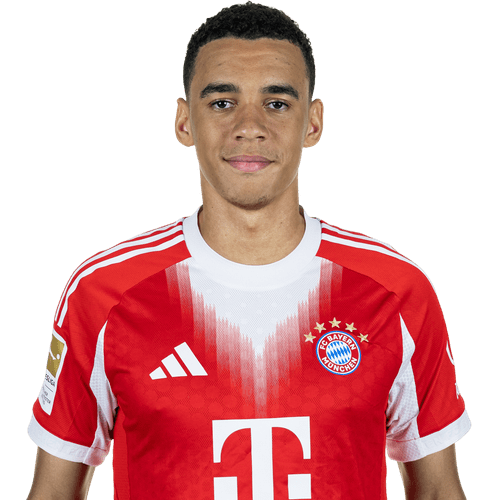
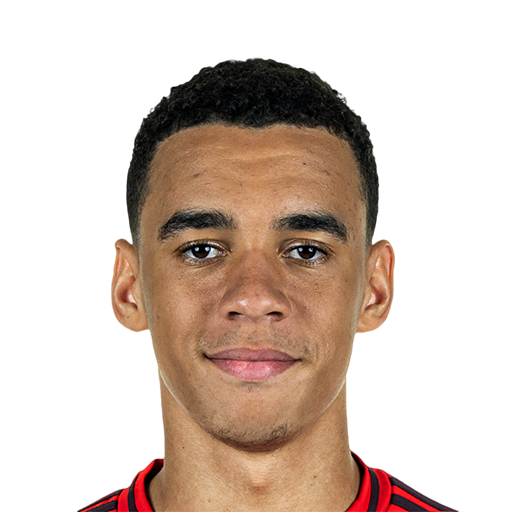
feat(players): standardize all 999 player photos to official FIFA/EA FC face-only portraits

diff --git a/src/lib/master-league-data.ts b/src/lib/master-league-data.ts
@@ -296,7 +296,8 @@ export const MOCK_ATHLETES: AthleteDTO[] = [
     overall: 92,
     position: "ATA",
     age: 26,
-    photoUrl: "/players/mbappe.png",
+    photoUrl:
+      "https://ratings-images-prod.pulse.ea.com/FC25/full/player-portraits/p231747.png?padding=0.7",
     defaultTeam: "Real Madrid",
     ballType: "BOLA_PRETA",
   },
@@ -306,7 +307,8 @@ export const MOCK_ATHLETES: AthleteDTO[] = [
     overall: 91,
     position: "ATA",
     age: 25,
-    photoUrl: "/players/haaland.png",
+    photoUrl:
+      "https://ratings-images-prod.pulse.ea.com/FC25/full/player-portraits/p239085.png?padding=0.7",
     defaultTeam: "Manchester City",
     ballType: "BOLA_PRETA",
   },
@@ -316,7 +318,8 @@ export const MOCK_ATHLETES: AthleteDTO[] = [
     overall: 91,
     position: "PE",
     age: 25,
-    photoUrl: "/players/vinijr.png",
+    photoUrl:
+      "https://ratings-images-prod.pulse.ea.com/FC25/full/player-portraits/p238794.png?padding=0.7",
     defaultTeam: "Real Madrid",
     ballType: "BOLA_PRETA",
   },
@@ -326,7 +329,8 @@ export const MOCK_ATHLETES: AthleteDTO[] = [
     overall: 91,
     position: "VOL",
     age: 29,
-    photoUrl: "/players/rodri.png",
+    photoUrl:
+      "https://ratings-images-prod.pulse.ea.com/FC25/full/player-portraits/p231866.png?padding=0.7",
     defaultTeam: "Manchester City",
     ballType: "BOLA_PRETA",
   },
@@ -336,7 +340,8 @@ export const MOCK_ATHLETES: AthleteDTO[] = [
     overall: 90,
     position: "ATA",
     age: 38,
-    photoUrl: "/players/messi.png",
+    photoUrl:
+      "https://ratings-images-prod.pulse.ea.com/FC25/full/player-portraits/p158023.png?padding=0.7",
     defaultTeam: "Inter Miami",
     ballType: "BOLA_PRETA",
   },
@@ -346,7 +351,8 @@ export const MOCK_ATHLETES: AthleteDTO[] = [
     overall: 90,
     position: "MEI",
     age: 22,
-    photoUrl: "/players/bellingham.png",
+    photoUrl:
+      "https://ratings-images-prod.pulse.ea.com/FC25/full/player-portraits/p252371.png?padding=0.7",
     defaultTeam: "Real Madrid",
     ballType: "BOLA_PRETA",
   },
@@ -356,7 +362,8 @@ export const MOCK_ATHLETES: AthleteDTO[] = [
     overall: 90,
     position: "ATA",
     age: 32,
-    photoUrl: "/players/kane.png",
+    photoUrl:
+      "https://ratings-images-prod.pulse.ea.com/FC25/full/player-portraits/p202126.png?padding=0.7",
     defaultTeam: "Bayern München",
     ballType: "BOLA_PRETA",
   },
@@ -366,7 +373,8 @@ export const MOCK_ATHLETES: AthleteDTO[] = [
     overall: 90,
     position: "GOL",
     age: 33,
-    photoUrl: "/players/courtois.png",
+    photoUrl:
+      "https://ratings-images-prod.pulse.ea.com/FC25/full/player-portraits/p192119.png?padding=0.7",
     defaultTeam: "Real Madrid",
     ballType: "BOLA_PRETA",
   },
@@ -376,7 +384,8 @@ export const MOCK_ATHLETES: AthleteDTO[] = [
     overall: 89,
     position: "ATA",
     age: 40,
-    photoUrl: "/players/ronaldo.png",
+    photoUrl:
+      "https://ratings-images-prod.pulse.ea.com/FC25/full/player-portraits/p20801.png?padding=0.7",
     defaultTeam: "Al-Nassr",
     ballType: "BOLA_PRETA",
   },
@@ -386,7 +395,8 @@ export const MOCK_ATHLETES: AthleteDTO[] = [
     overall: 89,
     position: "ATA",
     age: 37,
-    photoUrl: "/players/lewandowski.png",
+    photoUrl:
+      "https://ratings-images-prod.pulse.ea.com/FC25/full/player-portraits/p188545.png?padding=0.7",
     defaultTeam: "FC Barcelona",
     ballType: "BOLA_PRETA",
   },
@@ -396,7 +406,8 @@ export const MOCK_ATHLETES: AthleteDTO[] = [
     overall: 89,
     position: "PD",
     age: 33,
-    photoUrl: "/players/salah.png",
+    photoUrl:
+      "https://ratings-images-prod.pulse.ea.com/FC25/full/player-portraits/p209331.png?padding=0.7",
     defaultTeam: "Liverpool",
     ballType: "BOLA_PRETA",
   },
@@ -406,7 +417,8 @@ export const MOCK_ATHLETES: AthleteDTO[] = [
     overall: 89,
     position: "MC",
     age: 27,
-    photoUrl: "/players/valverde.png",
+    photoUrl:
+      "https://ratings-images-prod.pulse.ea.com/FC25/full/player-portraits/p239053.png?padding=0.7",
     defaultTeam: "Real Madrid",
     ballType: "BOLA_PRETA",
   },
@@ -416,7 +428,8 @@ export const MOCK_ATHLETES: AthleteDTO[] = [
     overall: 89,
     position: "ZAG",
     age: 34,
-    photoUrl: "/players/vandijk.png",
+    photoUrl:
+      "https://ratings-images-prod.pulse.ea.com/FC25/full/player-portraits/p203376.png?padding=0.7",
     defaultTeam: "Liverpool",
     ballType: "BOLA_PRETA",
   },
@@ -426,7 +439,8 @@ export const MOCK_ATHLETES: AthleteDTO[] = [
     overall: 89,
     position: "GOL",
     age: 32,
-    photoUrl: "/players/alisson.png",
+    photoUrl:
+      "https://ratings-images-prod.pulse.ea.com/FC25/full/player-portraits/p212831.png?padding=0.7",
     defaultTeam: "Liverpool",
     ballType: "BOLA_PRETA",
   },
@@ -436,7 +450,8 @@ export const MOCK_ATHLETES: AthleteDTO[] = [
     overall: 89,
     position: "MEI",
     age: 22,
-    photoUrl: "/players/musiala.png",
+    photoUrl:
+      "https://ratings-images-prod.pulse.ea.com/FC25/full/player-portraits/p256790.png?padding=0.7",
     defaultTeam: "Bayern München",
     ballType: "BOLA_PRETA",
   },
@@ -446,7 +461,8 @@ export const MOCK_ATHLETES: AthleteDTO[] = [
     overall: 89,
     position: "MEI",
     age: 22,
-    photoUrl: "/players/wirtz.png",
+    photoUrl:
+      "https://ratings-images-prod.pulse.ea.com/FC25/full/player-portraits/p256630.png?padding=0.7",
     defaultTeam: "Bayern München",
     ballType: "BOLA_PRETA",
   },
@@ -456,7 +472,8 @@ export const MOCK_ATHLETES: AthleteDTO[] = [
     overall: 88,
     position: "PD",
     age: 18,
-    photoUrl: "/players/yamal.png",
+    photoUrl:
+      "https://ratings-images-prod.pulse.ea.com/FC25/full/player-portraits/p277643.png?padding=0.7",
     defaultTeam: "FC Barcelona",
     ballType: "BOLA_PRETA",
   },
@@ -466,7 +483,8 @@ export const MOCK_ATHLETES: AthleteDTO[] = [
     overall: 88,
     position: "PD",
     age: 24,
-    photoUrl: "/players/saka.png",
+    photoUrl:
+      "https://ratings-images-prod.pulse.ea.com/FC25/full/player-portraits/p246669.png?padding=0.7",
     defaultTeam: "Arsenal",
     ballType: "BOLA_PRETA",
   },
@@ -476,7 +494,8 @@ export const MOCK_ATHLETES: AthleteDTO[] = [
     overall: 88,
     position: "ZAG",
     age: 24,
-    photoUrl: "/players/saliba.png",
+    photoUrl:
+      "https://ratings-images-prod.pulse.ea.com/FC25/full/player-portraits/p243715.png?padding=0.7",
     defaultTeam: "Arsenal",
     ballType: "BOLA_PRETA",
   },
@@ -486,7 +505,8 @@ export const MOCK_ATHLETES: AthleteDTO[] = [
     overall: 88,
     position: "MC",
     age: 22,
-    photoUrl: "/players/pedri.png",
+    photoUrl:
+      "https://ratings-images-prod.pulse.ea.com/FC25/full/player-portraits/p251854.png?padding=0.7",
     defaultTeam: "FC Barcelona",
     ballType: "BOLA_PRETA",
   },
@@ -496,7 +516,8 @@ export const MOCK_ATHLETES: AthleteDTO[] = [
     overall: 87,
     position: "PE",
     age: 28,
-    photoUrl: "/players/raphinha.png",
+    photoUrl:
+      "https://ratings-images-prod.pulse.ea.com/FC25/full/player-portraits/p233419.png?padding=0.7",
     defaultTeam: "FC Barcelona",
     ballType: "BOLA_PRETA",
   },
@@ -506,7 +527,8 @@ export const MOCK_ATHLETES: AthleteDTO[] = [
     overall: 87,
     position: "MEI",
     age: 23,
-    photoUrl: "/players/palmer.png",
+    photoUrl:
+      "https://ratings-images-prod.pulse.ea.com/FC25/full/player-portraits/p257534.png?padding=0.7",
     defaultTeam: "Chelsea",
     ballType: "BOLA_PRETA",
   },
@@ -516,7 +538,7 @@ export const MOCK_ATHLETES: AthleteDTO[] = [
     overall: 84,
     position: "ATA",
     age: 28,
-    photoUrl: "/players/pedro.png",
+    photoUrl: "/players/pedro.png?v=2",
     defaultTeam: "Flamengo",
     ballType: "BOLA_OURO",
   },
@@ -526,7 +548,7 @@ export const MOCK_ATHLETES: AthleteDTO[] = [
     overall: 83,
     position: "PD",
     age: 18,
-    photoUrl: "/players/estevao.png",
+    photoUrl: "/players/estevao.png?v=2",
     defaultTeam: "Palmeiras",
     ballType: "BOLA_OURO",
   },
